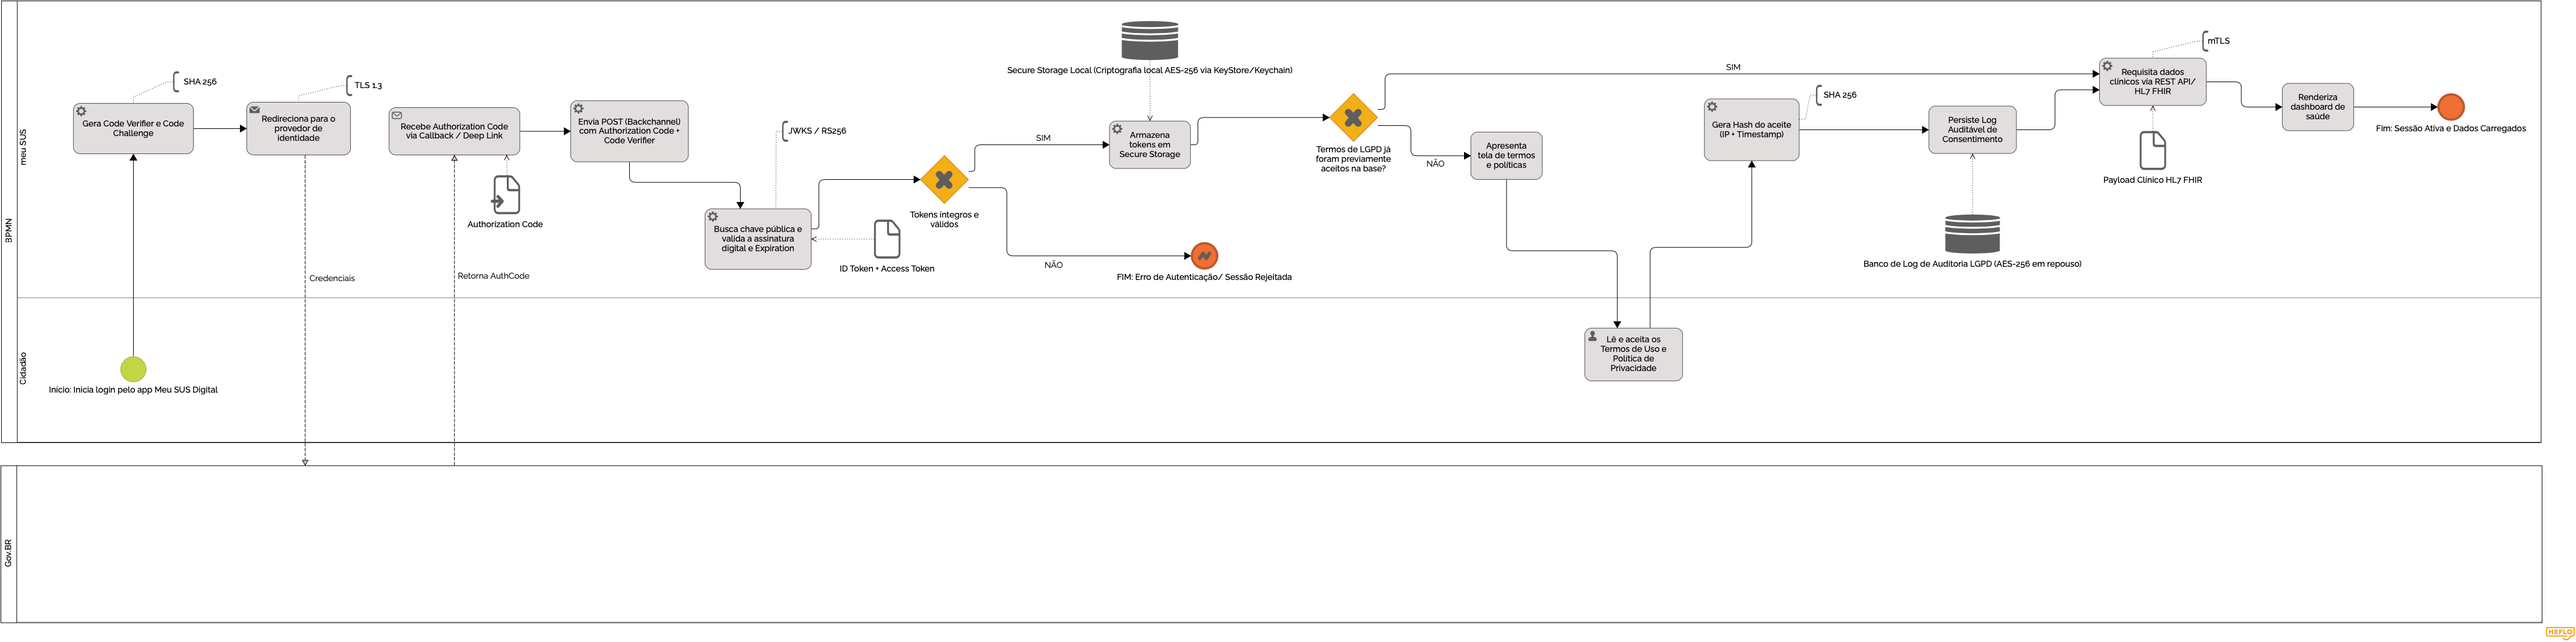
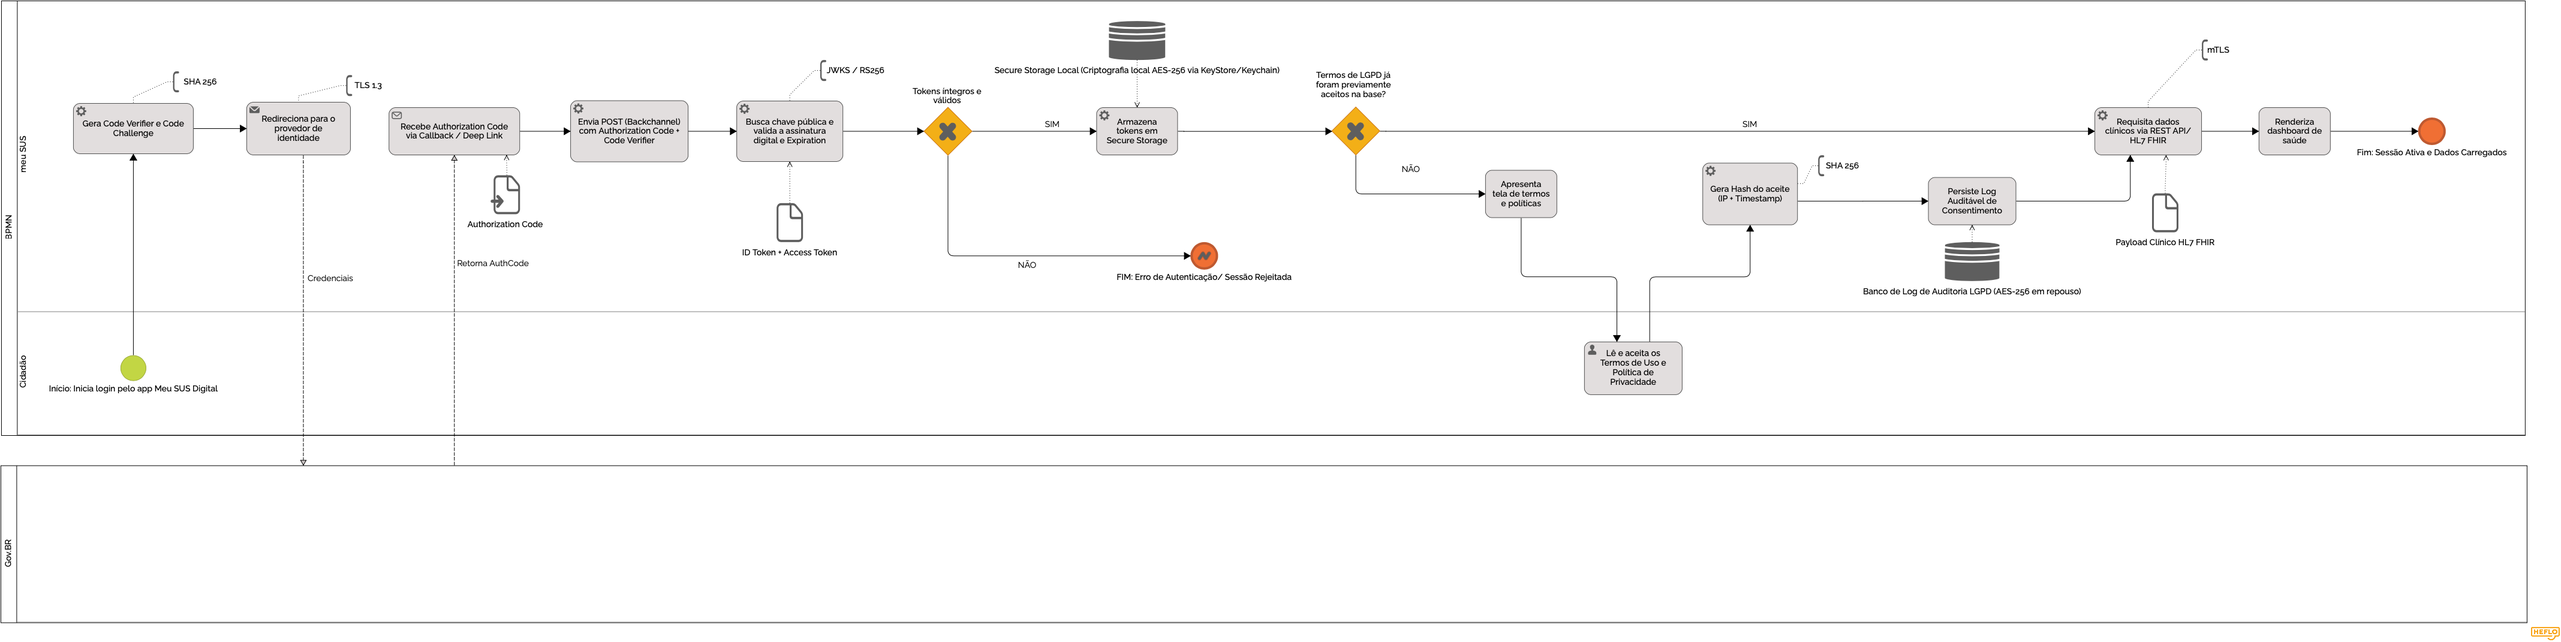
docs: inserção histórico de versionamento final bpmn

diff --git a/docs/DesenhoDeSoftware/Relatórios/1.1.1.SubEquipe_01/1.1.1.3.BPMN.md b/docs/DesenhoDeSoftware/Relatórios/1.1.1.SubEquipe_01/1.1.1.3.BPMN.md
@@ -82,6 +82,7 @@ A tabela abaixo detalha as responsabilidades de cada componente e as justificati
 ---
 ### Versão 1.1
 ![Diagrama BPMN do Fluxo de Autenticação via Gov.br](../assets/subequipe01-fluxos/BPMN/bpmn-versao1.1.png)
+
 #### Quem fez a versão
 - [João Leles](https://github.com/joaoleless)
 
@@ -90,8 +91,11 @@ A tabela abaixo detalha as responsabilidades de cada componente e as justificati
 
 ---
 ### Versão 1.2
+![Diagrama BPMN do Fluxo de Autenticação via Gov.br](../assets/subequipe01-fluxos/BPMN/bpmn-versao1.2.png)
 
 #### Quem fez a versão
+- [Artur Galdino](https://github.com/ArturFGaldino) 
+- [Nicole Jovita](https://github.com/nicolejovita) 
 
 #### O que mudou da versão anterior
 - Organização dos gateways e sequência do fluxo de forma contínua 
@@ -104,3 +108,4 @@ A tabela abaixo detalha as responsabilidades de cada componente e as justificati
 | [Giovani Coelho](https://github.com/Gotc2607) | Adição de fundamentação teórica e referências bibliográficas (OAuth 2.0, OWASP, Gov.br) | 26/08/2026 |
 | [João Leles](https://github.com/joaoleless) | Inserção da versão 1.1 com a organização dos gateways e sequência do fluxo contínua | 27/08/2026 |
 | [Nicole Jovita](https://github.com/nicolejovita) | Reestruturação da documentação BPMN | 28/08/2026 |
+| [Artur Galdino](https://github.com/ArturFGaldino) e [Nicole Jovita](https://github.com/nicolejovita) | Inserção da versão 1.2 (final) | 28/08/2026 |
